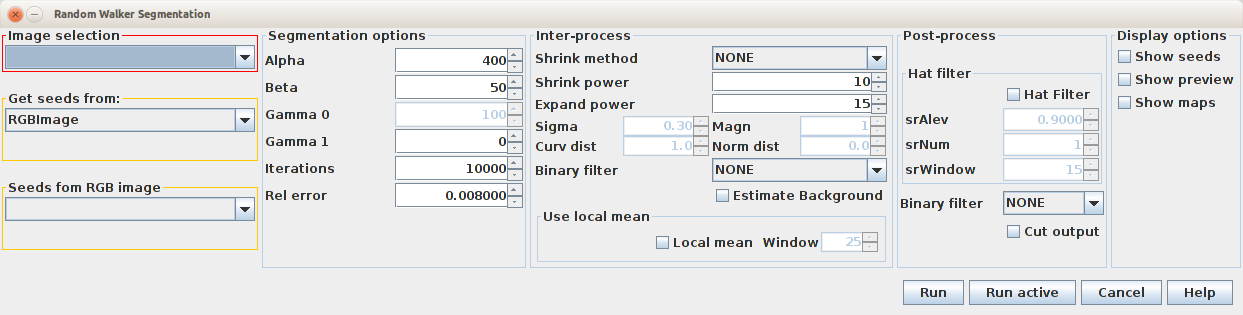
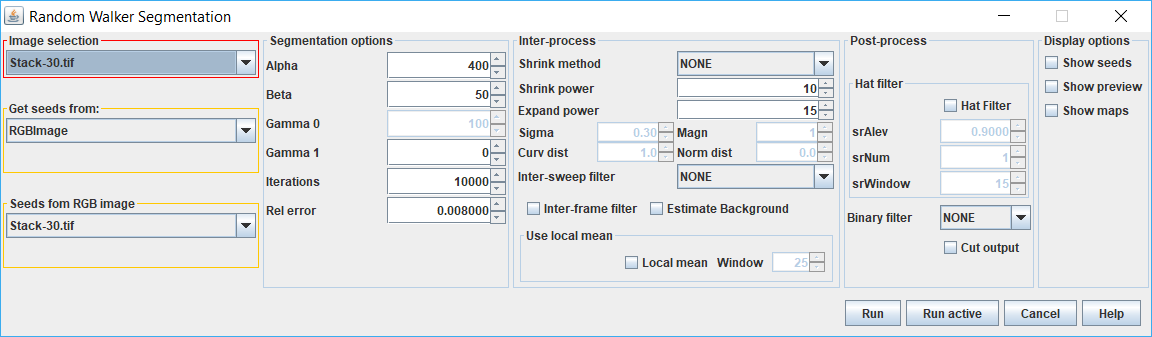
Updated description of RW to v18.01.01. Fixes #16

Changed region(s): [[0.0, 0.0, 1.0, 0.8571], [0.0, 0.8857, 1.0, 1.0], [0.0, 0.5714, 0.2812, 0.8]]

diff --git a/Docs/QuimP_Guide.tex b/Docs/QuimP_Guide.tex
@@ -100,7 +100,7 @@ The key features of this version are:
 		\item Macro support - see \ref{sec:macrosupport}
 		\item Save BOA state without quitting - see \ref{sec:BOAPlugin}, \ref{sec:boaMenu}
 		\item Added option in BOA for expanding snakes from cell inside - see \ref{sec:BOAPlugin}
-		\item Significant changes in Random Walk module - see \ref{sec:RWSeg} 
+		\item Significant changes in Random Walk module, e.g. multi object segmentation - see \ref{sec:RWSeg} 
 	\end{itemize}
 	\item \href{http://pilip.lnx.warwick.ac.uk/site/changes-report.html#a17.12.02}{v17.12.02}
 	\begin{itemize}
@@ -708,13 +708,14 @@ The RW plugin can be called outside of QuimP from the QuimP Bar, from IJ macro o
 		\end{figure}
 		\item \textit{MORPHOLOGICAL} - masks are processed by morphological erosion. Parameters \textit{Shrink power} and \textit{Expand power} relate to number of algorithm iterations. 
 	\end{itemize}
-	\item Binary filter - applied between sweeps. It is intended to remove binary noise, isolated pixels, etc, that could give false seeding:
+	\item Inter-sweep filter - applied between sweeps. It is intended to remove binary noise, isolated pixels, etc, that could give false seeding:
 	\begin{itemize}
 		\item \textit{NONE} - filtering disabled
 		\item \textit{SIMPLE} - performs one iteration of morphological opening operation.
 		\item \textit{MEDIAN} - median filtering with kernel of radius 2.
 	\end{itemize}
 	\item \textit{Estimate Background} - try to apply simple Otsu thresholding to background seeds. Use \textit{Show seeds} to verify correctness of estimation.
+	\item \textit{Inter-frame filter} - apply additional erosion and median filtering between frames during propagation of seeds.
 \end{itemize}
 
 \textbf{Local mean} - this option can improve behavior of the algorithm in areas with high gradient of intensity, usually at cell cortex, preserving cell boundaries. This method works only with seeds provided as \textit{Mask image} or \textit{QCONF file}. Moreover, masks should be larger than the object itself. \textit{Window} parameter stands for the size (odd) of the sampling window used for computing local mean intensity.   
